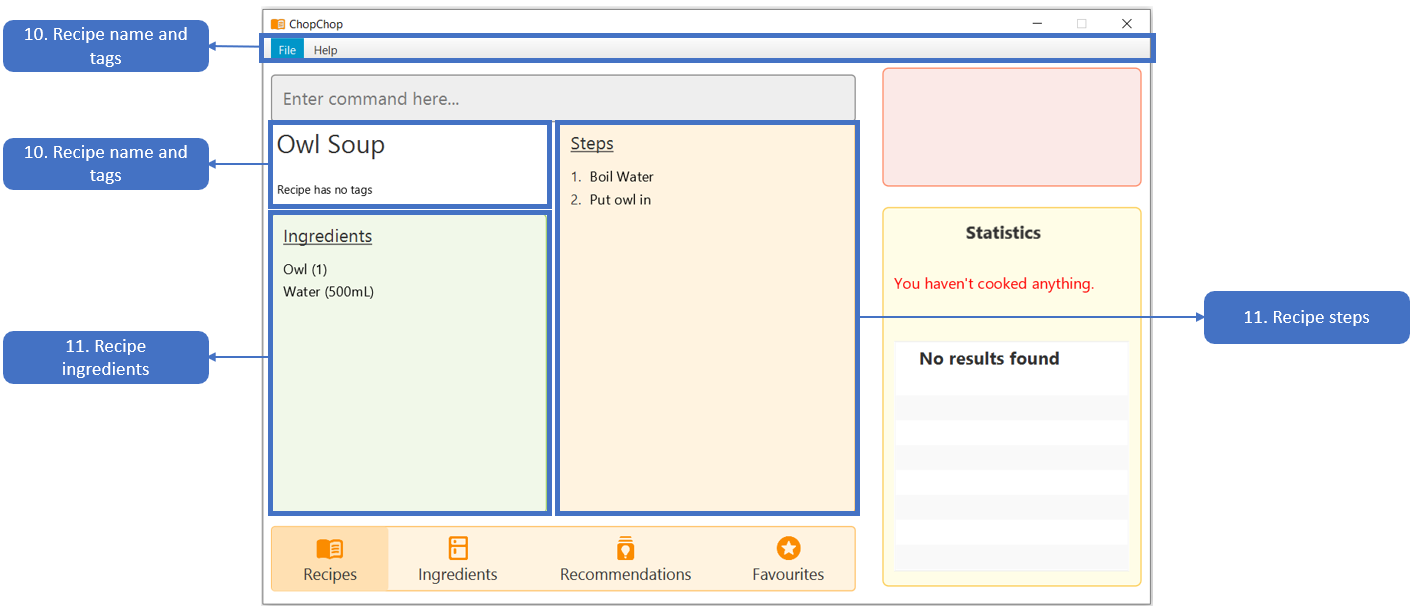
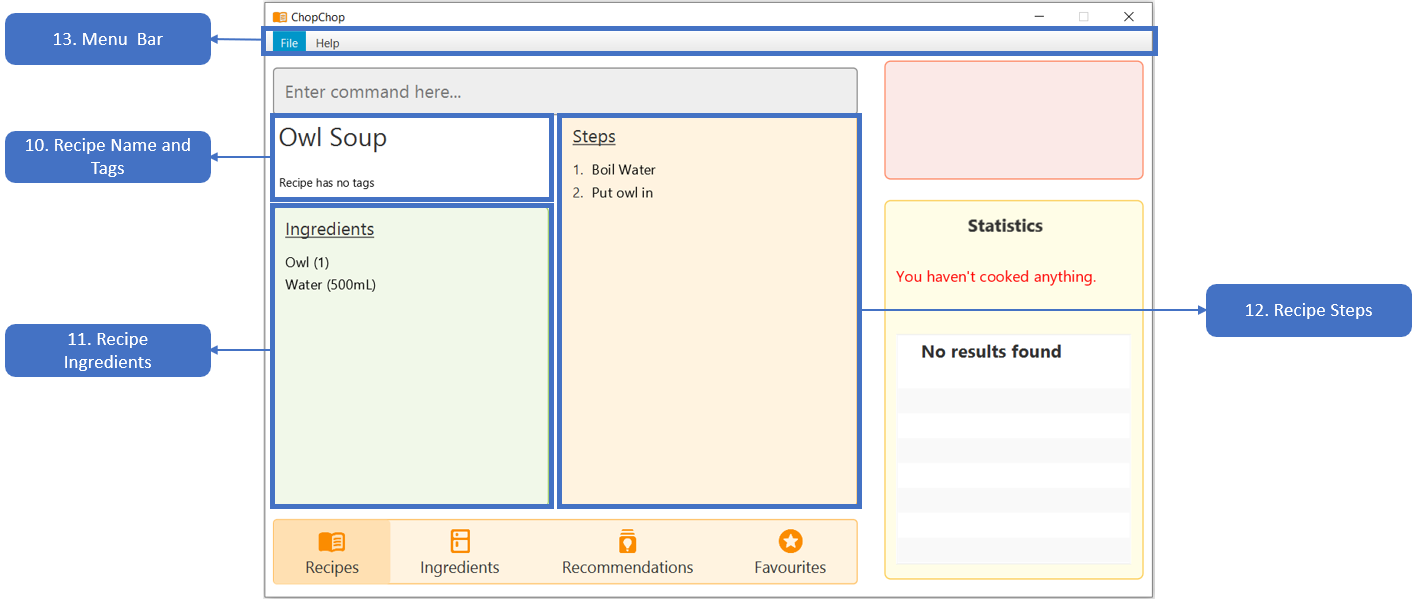
Add ToC for section 4

diff --git a/docs/UserGuide.md b/docs/UserGuide.md
@@ -84,16 +84,34 @@ A recipe consists of a list of used ingredients (and their quantities), as well 
 
 ChopChop's UI design allows users to view all of the information you need through mouse input over a few tabs. However, that might lead to a slightly steeper learning curve.
 Hence, this section aims to give you a breakdown of the GUI's various components.
+
+Specifically, this section covers:
+1. [Command Box](#commandBox)
+2. Command Output
+3. Recipe Button
+4. Ingredient Button
+5. Recommendation Button
+6. Favourites Button
+7. Statistics Box
+8. Recipe Tile
+9. Ingredient Tile
+10. Recipe Name and Tags
+11. Recipe Ingredients
+12. Recipe Steps
+13. Menu Bar
+
 <div style="text-align: center; padding-bottom: 2em">
 <img src="images/ug/recipe_panel_description.png" width="95%" /> <br />
 Figure 1.2: <i>The recipe view panel of ChopChop.</i>
 </div>
 
-To use ChopChop you can enter commands into the command box as labelled in figure 1.2; start typing anywhere in ChopChop to enter a command (the command box does not have to be focused). The user interface will automatically update to reflect changes made by commands, and the output will be printed into the command output.
+<a name="commandBox"></a>
+### 4.1 Command Box 
+ChopChop does your bidding by listening to your commands — the `Command Box` is where you type your textual commands.
+After typing your commands, press <kbd>enter</kbd> to execute the command.
 
-Besides navigating the app through the the command box, our interactive graphical display allows you to view your recipes, ingredients and recipe recommendations through pressing of the buttons at the bottom of the GUI. If you wish to view a recipe, you can also click on the recipe tiles.
+For a quick overview on the commands ChopChop can perform, 
 
-Also, your cooking statistics will be displayed in the statistics box.
 
 <div style="text-align: center; padding-bottom: 2em">
 <img src="images/ug/ingredient_panel_description.png" width="95%" /> <br />
@@ -110,6 +128,7 @@ Figure 1.4: <i>The recipe display panel of ChopChop.</i>
 
 
 -----------
+<a name="commands"></a>
 ## 5. Commands
 
 While ChopChop has a graphical user interface, the main method of interaction is through the use of *typed commands*. Using these commands as described below, you can manipulate your recipes and ingredients without ever needing to move your mouse!
@@ -963,3 +982,7 @@ How does it work? ChopChop uses the current text when completing and searches fo
 What if there are multiple items that share a prefix, for example <i>baking powder</i> and <i>baking soda</i> in the pancake recipe above? Worry not; pressing <kbd>tab</kbd> <i>repeatedly</i> will cycle through the available completions, and they are sorted lexicographically (length, followed by alphabetical order) — pressing <kbd>tab</kbd> after `/ingredient b` would give you <i>butter</i>, <i>baking powder</i>, and <i>baking soda</i>, in that order.
 
 The same thing applies to commands; <code>f <kbd>tab</kbd></code> would cycle between `find` and `filter`.
+
+--------------------
+<a name="TabCompletion"></a>
+## 7. Tab Completion
